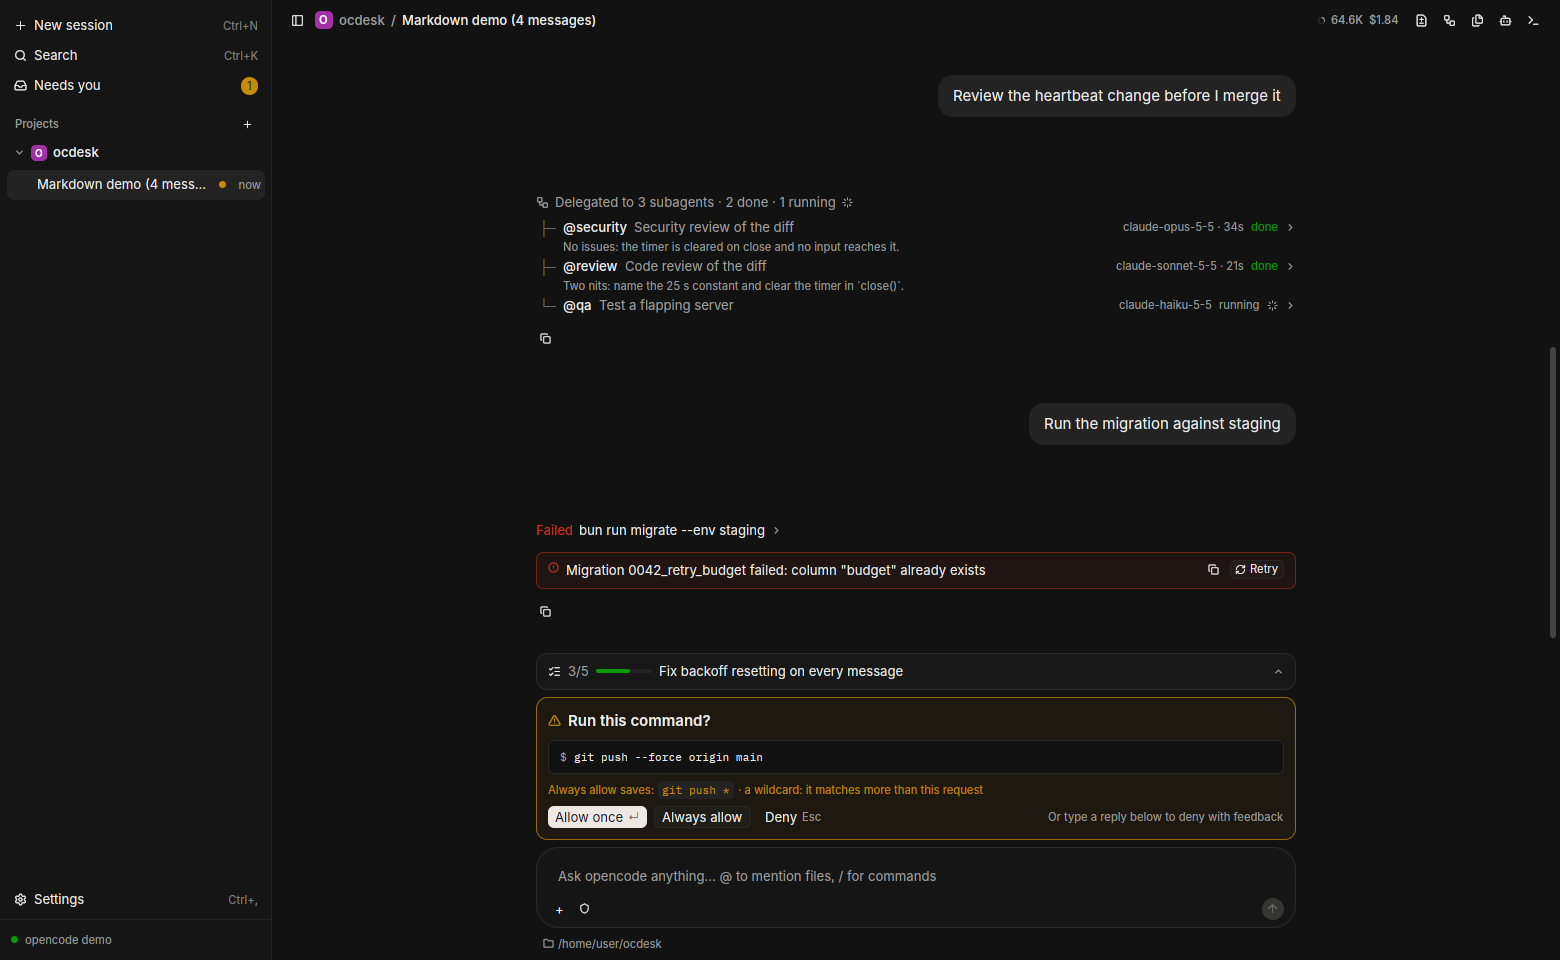
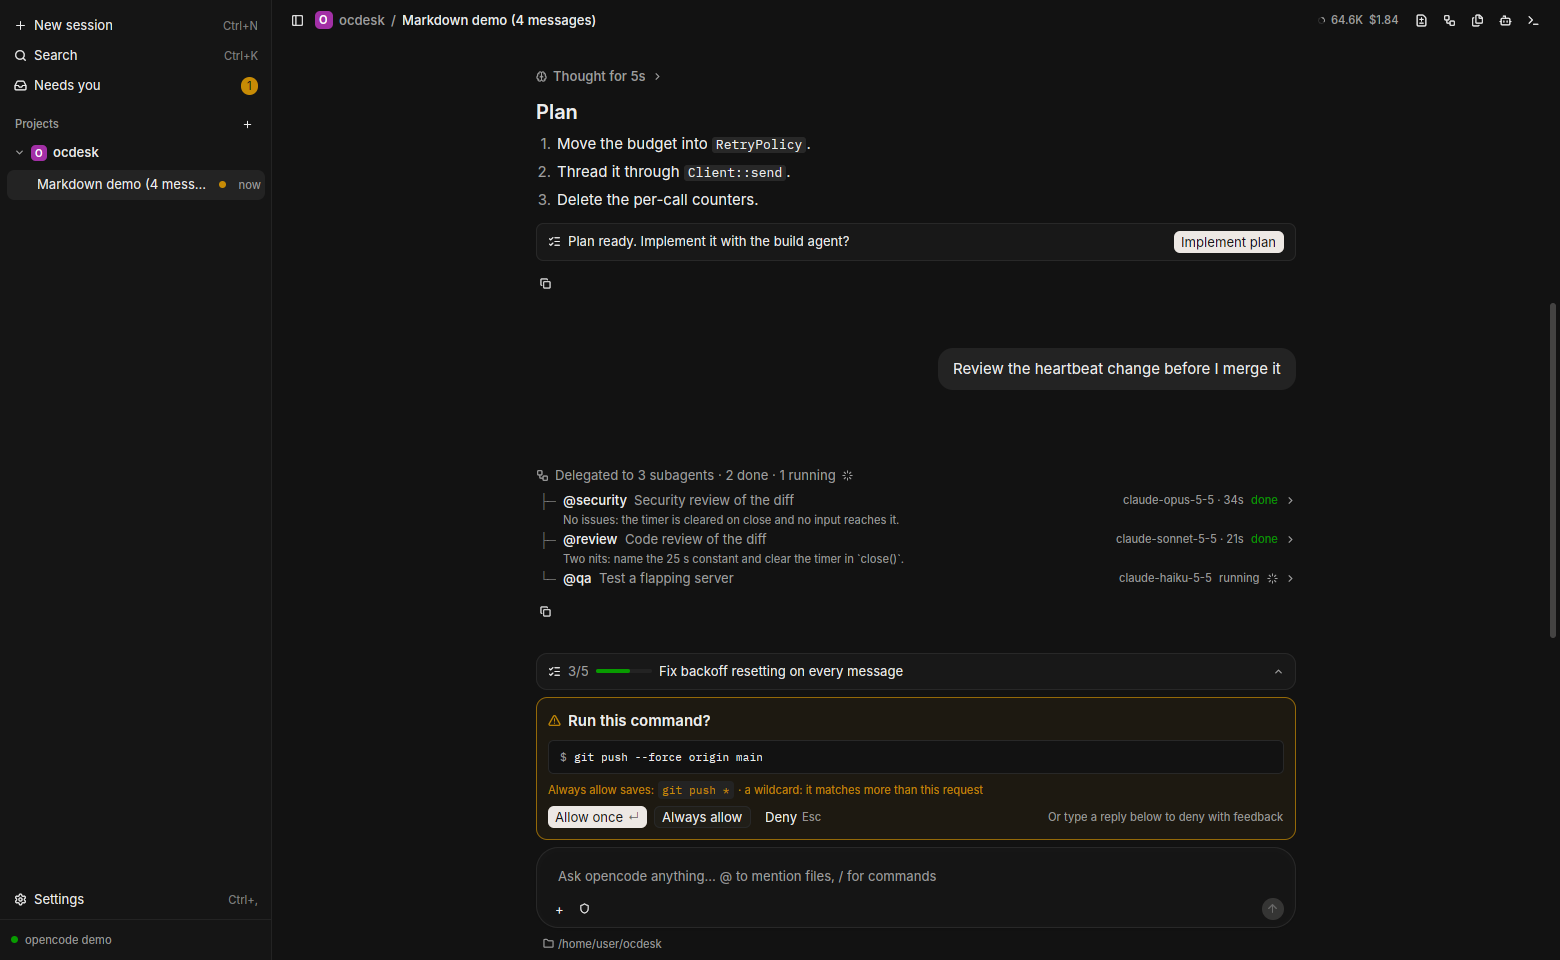
demo: make the failed step opt-in, retake screenshots without it
The failed turn was the last message in the demo history, so the error
banner showed at the bottom of every screenshot. It now only appears
with OCDESK_DEMO_ERROR=1. All five README screenshots are re-captured.

Claude-Session: https://claude.ai/code/session_01KSMAksxE4fCLTZtXb5sf3C

diff --git a/src/demo.rs b/src/demo.rs
@@ -8,6 +8,8 @@
 //!   `OCDESK_DEMO=250` gives the 500-message perf case.
 //! - `OCDESK_DEMO_DELAY_MS`: delay between streamed words, default 15.
 //! - `OCDESK_DEMO_AUTOPLAY=<prompt>`: send this prompt once at startup.
+//! - `OCDESK_DEMO_APPROVAL=1`: show a pending command approval.
+//! - `OCDESK_DEMO_ERROR=1`: end the history with a failed step.
 
 use std::path::PathBuf;
 use std::time::Duration;
@@ -144,7 +146,7 @@ fn showcase(now: u64) -> Vec<Message> {
             uri: Some(crate::api::model::file_uri(std::path::Path::new(&path))),
         });
     }
-    vec![
+    let mut turns = vec![
         first,
         Message::Assistant(AssistantMessage {
             id: "msg_z2".into(),
@@ -264,7 +266,26 @@ fn showcase(now: u64) -> Vec<Message> {
             error: None,
             meta: meta("lead", 30),
         }),
-        user("msg_z5", "Run the migration against staging"),
+    ];
+    // OCDESK_DEMO_ERROR=1 ends the history with a failed step (Retry banner).
+    if std::env::var("OCDESK_DEMO_ERROR").is_ok() {
+        turns.extend(failed_turn(
+            user("msg_z5", "Run the migration against staging"),
+            &tool,
+            &meta,
+        ));
+    }
+    turns
+}
+
+fn failed_turn(
+    prompt: Message,
+    tool: &dyn Fn(&str, &str, serde_json::Value, &str, ToolStatus) -> Block,
+    meta: &dyn Fn(&str, u64) -> crate::api::model::Meta,
+) -> [Message; 2] {
+    use serde_json::json;
+    [
+        prompt,
         Message::Assistant(AssistantMessage {
             id: "msg_z6".into(),
             blocks: vec![tool(

diff --git a/docs/development.md b/docs/development.md
@@ -62,7 +62,8 @@ assistant, default 20); prompts get a streamed markdown reply through the
 same `Store::apply` path real events take. `OCDESK_DEMO=250` is the
 500-message perf case. `OCDESK_DEMO_DELAY_MS` sets the per-word delay
 (default 15), `OCDESK_DEMO_AUTOPLAY=<prompt>` sends one prompt at startup
-(`long` in it gives the long answer).
+(`long` in it gives the long answer). `OCDESK_DEMO_APPROVAL=1` adds a pending
+command approval and `OCDESK_DEMO_ERROR=1` ends the history with a failed step.
 
 ```sh
 OCDESK_DEMO=250 OCDESK_DEMO_AUTOPLAY="long answer" OCDESK_FRAME_LOG=1 cargo run

diff --git a/README.md b/README.md
@@ -18,7 +18,7 @@ Rust + [GPUI](https://www.gpui.rs) (the UI framework behind Zed). No Electron, n
 
 <br>
 
-<img src="docs/screenshots/ux-transcript-approval.png" alt="ocdesk: a subagent fan-out, a failed step with Retry, a todo progress pill and a command approval above the prompt">
+<img src="docs/screenshots/ux-transcript-approval.png" alt="ocdesk: a plan with Implement plan, a subagent fan-out, a todo progress pill and a command approval above the prompt">
 
 </div>
 
